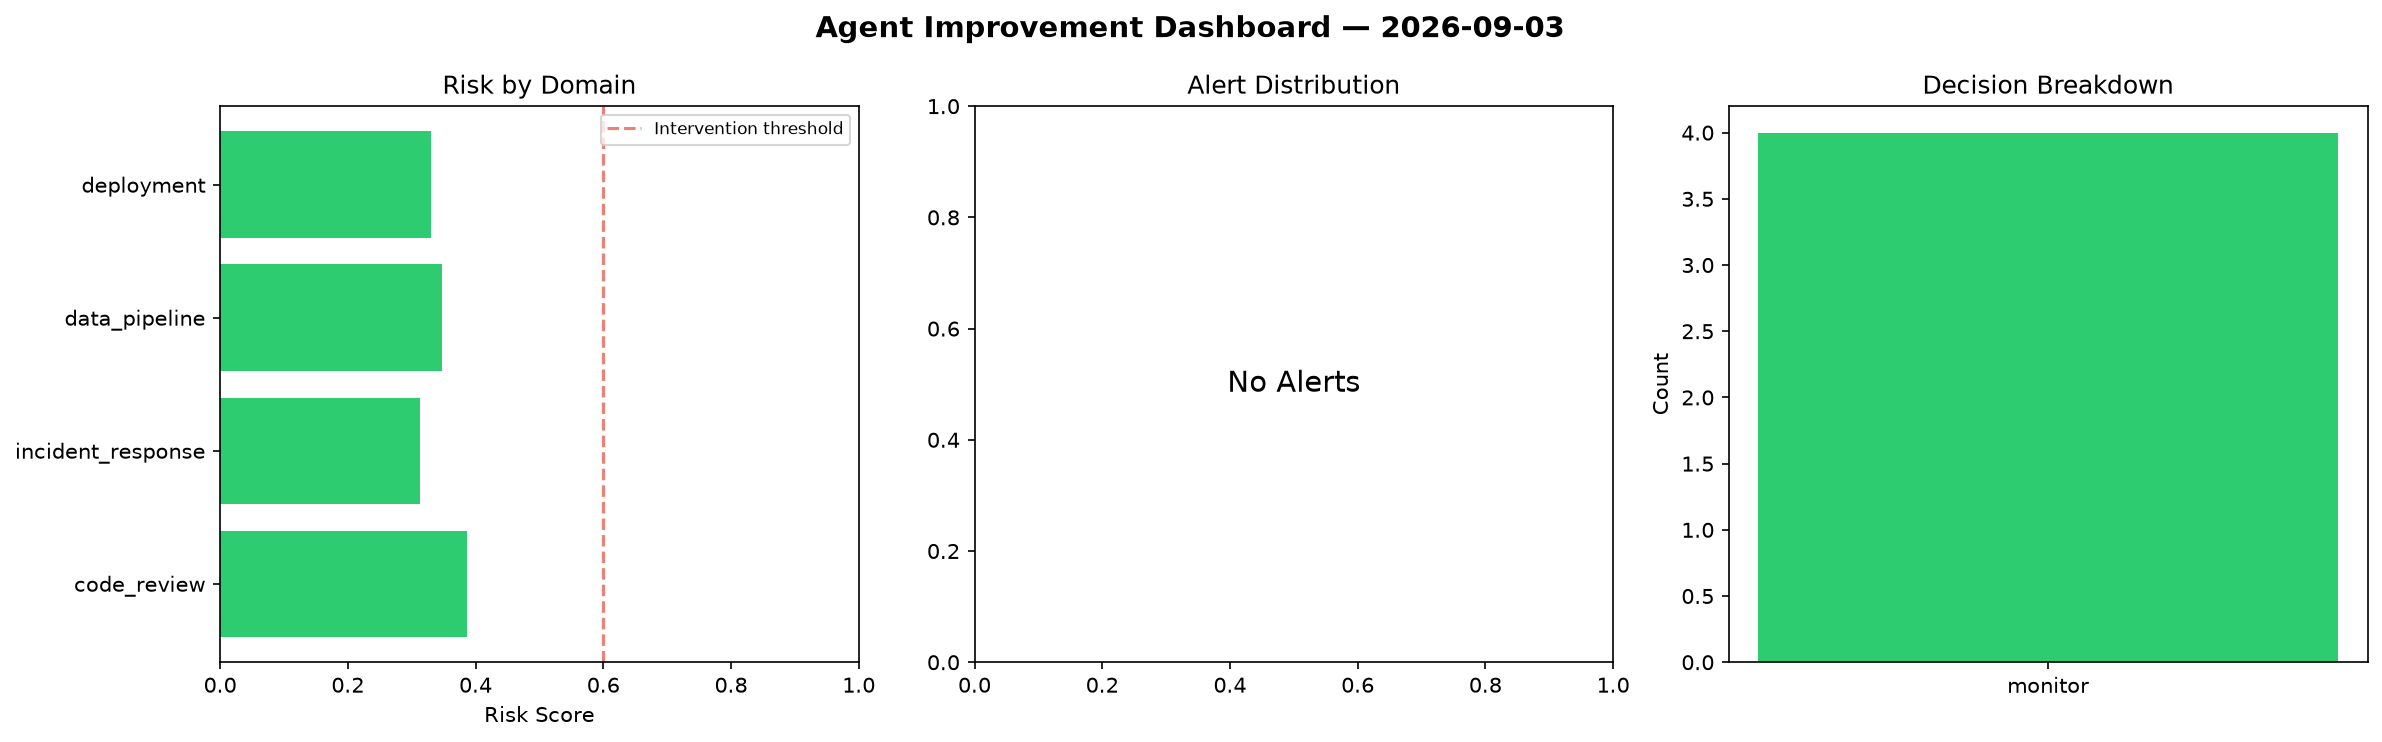
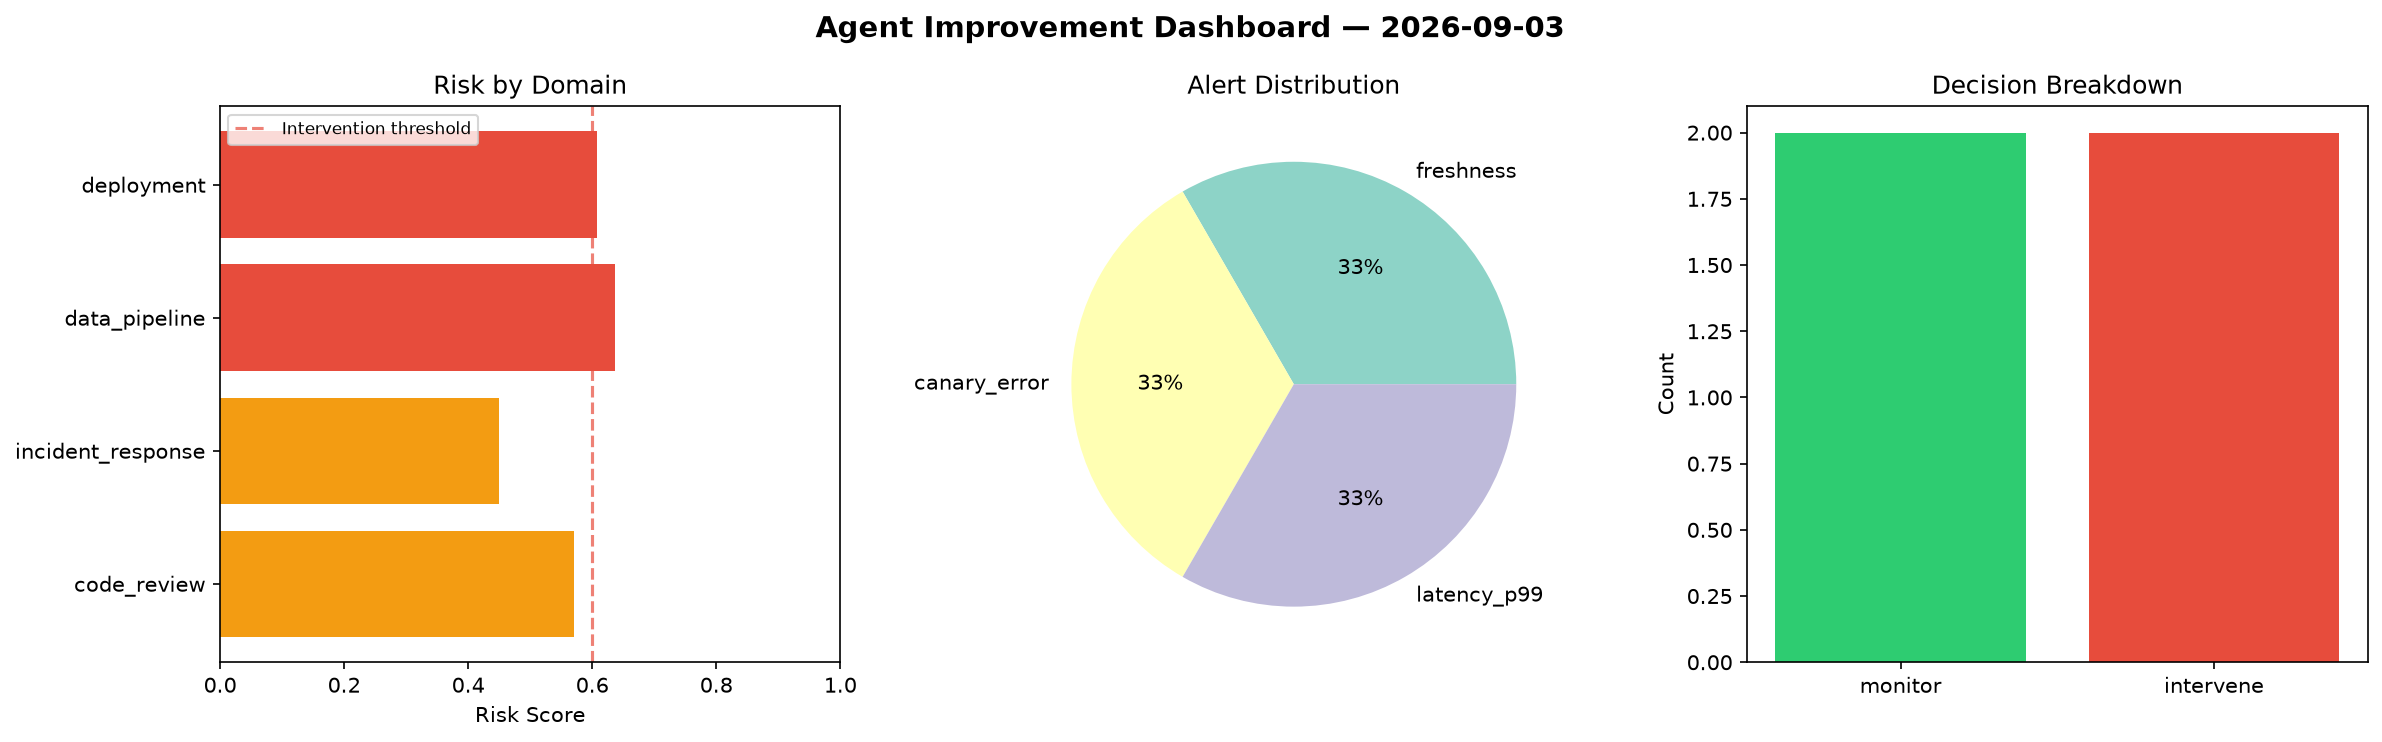
agent-improvement: daily cycle 2026-09-03T17:52

diff --git a/logs/2026-09-03.md b/logs/2026-09-03.md
@@ -1,6 +1,6 @@
 # Agent Improvement Report — 2026-09-03
 
-**Cycle ID:** `de36d837` | **Avg Risk:** 0.3446 | **Interventions:** 0/4
+**Cycle ID:** `3f860ec5` | **Avg Risk:** 0.5665 | **Interventions:** 2/4
 
 ![Dashboard](2026-09-03_dashboard.png)
 
@@ -10,18 +10,18 @@
 
 | Domain | Risk Score | Decision | Alerts |
 |--------|-----------|----------|--------|
-| code_review | 0.3862 | monitor | none |
-| incident_response | 0.3135 | monitor | none |
-| data_pipeline | 0.348 | monitor | none |
-| deployment | 0.3306 | monitor | none |
+| code_review | 0.5712 | monitor | none |
+| incident_response | 0.4501 | monitor | none |
+| data_pipeline | 0.6368 | intervene | freshness |
+| deployment | 0.6079 | intervene | canary_error, latency_p99 |
 
 ## Delta vs Yesterday
 
 | Domain | Today | Yesterday | Change |
 |--------|-------|-----------|--------|
-| code_review | 0.3862 | 0.5903 | 📉 -34.6% |
-| incident_response | 0.3135 | 0.2737 | 📈 14.5% |
-| data_pipeline | 0.348 | 0.6118 | 📉 -43.1% |
-| deployment | 0.3306 | 0.3853 | 📉 -14.2% |
+| code_review | 0.5712 | 0.5903 | 📉 -3.2% |
+| incident_response | 0.4501 | 0.2737 | 📈 64.5% |
+| data_pipeline | 0.6368 | 0.6118 | 📈 4.1% |
+| deployment | 0.6079 | 0.3853 | 📈 57.8% |
 
-**Refinement:** `{'adjustment': 'maintain', 'trend': 'improving', 'window': 4}`
+**Refinement:** `{'adjustment': 'tighten_thresholds', 'trend': 'degrading', 'window': 4}`
